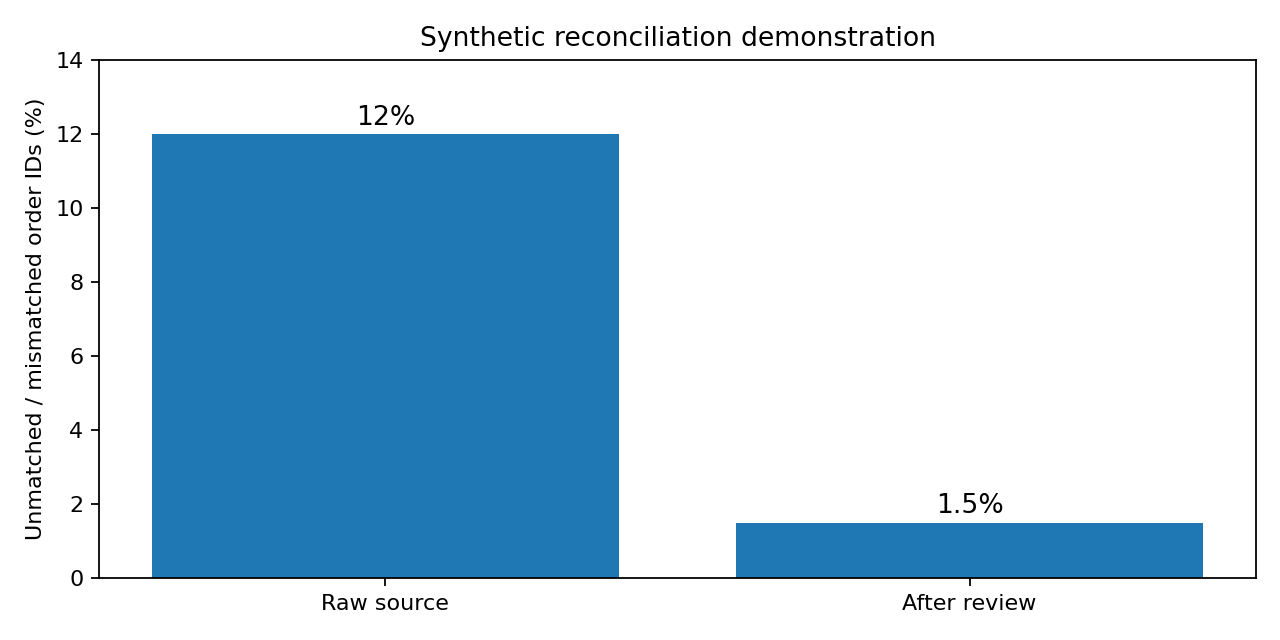
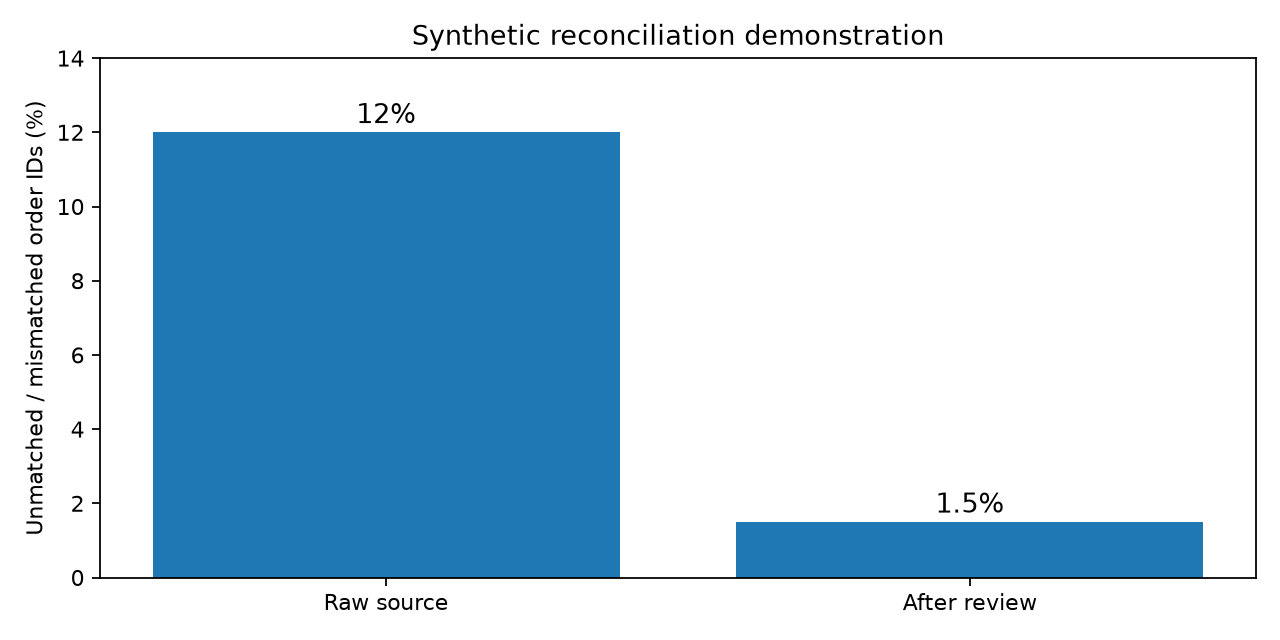
Fix reproducibility and publish verified analytics evidence

diff --git a/run_analysis.py b/run_analysis.py
@@ -1,27 +1,35 @@
-"""Re-run reconciliation and reporting on generated CSVs without regenerating them."""
+"""Replay reconciliation from generated CSVs with data-derived denominators."""
 from pathlib import Path
+import json
 import pandas as pd
-ROOT=Path(__file__).resolve().parent
-orders=pd.read_csv(ROOT/'data/orders.csv',usecols=['order_id','channel','sku_id','quantity','net_amount_inr','item_cost_inr'])
+
+ROOT = Path(__file__).resolve().parent
+ORDERS = pd.read_csv(ROOT / 'data/orders.csv', usecols=['order_id', 'channel', 'sku_id', 'quantity', 'net_amount_inr', 'item_cost_inr'])
 
 def audit(filename):
-    invoice=pd.read_csv(ROOT/'data'/filename)
-    # First aggregate invoice records to order_id grain; one-to-many joins inflate totals.
-    per_id=invoice.groupby('order_id',as_index=False).agg(invoice_count=('invoice_id','size'),invoice_amount_inr=('invoice_amount_inr','first'))
-    checked=orders[['order_id','net_amount_inr']].merge(per_id,on='order_id',how='left',validate='one_to_one')
-    missing=checked.invoice_count.isna()
-    duplicates=checked.invoice_count.gt(1)
-    amount=checked.net_amount_inr.ne(checked.invoice_amount_inr)
-    status='matched'
-    checked['status']='matched'
-    checked.loc[amount & ~missing,'status']='amount_mismatch'
-    checked.loc[duplicates,'status']='duplicate_invoice'
-    checked.loc[missing,'status']='missing_invoice'
-    return checked.status.value_counts().to_dict()
+    invoice = pd.read_csv(ROOT / 'data' / filename)
+    per_id = invoice.groupby('order_id', as_index=False).agg(
+        invoice_count=('invoice_id', 'size'), invoice_amount_inr=('invoice_amount_inr', 'first'))
+    checked = ORDERS[['order_id', 'net_amount_inr']].merge(per_id, on='order_id', how='left', validate='one_to_one')
+    missing = checked.invoice_count.isna()
+    duplicates = checked.invoice_count.gt(1)
+    amount = checked.invoice_amount_inr.isna() | (checked.net_amount_inr - checked.invoice_amount_inr).abs().gt(0.01)
+    checked['status'] = 'matched'
+    checked.loc[amount & ~missing & ~duplicates, 'status'] = 'amount_mismatch'
+    checked.loc[duplicates, 'status'] = 'duplicate_invoice'
+    checked.loc[missing, 'status'] = 'missing_invoice'
+    return checked
 
-before=audit('invoices_raw.csv')
-after=audit('invoices_after_review.csv')
-print('BEFORE:',before,'\nAFTER:',after)
-print('Before rate:',100*(750000-before.get('matched',0))/750000)
-print('After rate:',100*(750000-after.get('matched',0))/750000)
-print('Weekly reporting effort: 8h -> 2h (illustrative 75% reduction)')
+def summary(frame):
+    counts = frame.status.value_counts().to_dict()
+    denominator = len(frame)
+    return {'counts': {k: int(v) for k, v in counts.items()}, 'orders': denominator,
+            'exception_count': int((frame.status != 'matched').sum()),
+            'exception_rate_pct': round(100 * (frame.status != 'matched').mean(), 4)}
+
+before, after = audit('invoices_raw.csv'), audit('invoices_after_review.csv')
+report = {'before': summary(before), 'after': summary(after),
+          'reporting_effort': {'before_hours': 8, 'after_hours': 2, 'time_saved_pct': 75,
+                               'status': 'illustrative assumption; not measured by generated records'}}
+(ROOT / 'outputs/replay_metrics.json').write_text(json.dumps(report, indent=2) + '\n')
+print(json.dumps(report, indent=2))

diff --git a/build_demo.py b/build_demo.py
@@ -59,7 +59,8 @@ exceptions.to_csv(DATA/'exception_register.csv',index=False)
 def reconciliation(inv):
     s=inv.groupby('order_id').agg(invoice_count=('invoice_id','size'),invoice_amount_inr=('invoice_amount_inr','first')).reset_index()
     o=orders[['order_id','net_amount_inr']].merge(s,on='order_id',how='left',validate='one_to_one')
-    o['status']=np.select([o.invoice_count.isna(),o.invoice_count.gt(1),o.net_amount_inr.ne(o.invoice_amount_inr)],['missing_invoice','duplicate_invoice','amount_mismatch'],default='matched')
+    amount_mismatch = o.invoice_amount_inr.isna() | (o.net_amount_inr-o.invoice_amount_inr).abs().gt(0.01)
+    o['status']=np.select([o.invoice_count.isna(),o.invoice_count.gt(1),amount_mismatch],['missing_invoice','duplicate_invoice','amount_mismatch'],default='matched')
     return o
 before=reconciliation(raw);after=reconciliation(corrected)
 summary=pd.DataFrame({'status':['matched','amount_mismatch','missing_invoice','duplicate_invoice'],'before':[int((before.status==s).sum()) for s in ['matched','amount_mismatch','missing_invoice','duplicate_invoice']],'after':[int((after.status==s).sum()) for s in ['matched','amount_mismatch','missing_invoice','duplicate_invoice']]})
@@ -83,7 +84,7 @@ inventory['needs_reorder']=inventory.stock_on_hand.lt(inventory.reorder_point)
 inventory.to_csv(DATA/'inventory_snapshot.csv',index=False)
 # Weekly reporting effort comparison: demonstration narrative baseline provided, not computed from fake dates.
 pd.DataFrame({'process':['weekly_sales_reporting'],'before_hours':[8],'after_hours':[2],'time_saved_pct':[75]}).to_csv(OUT/'reporting_efficiency.csv',index=False)
-metrics={'synthetic_orders':N,'raw_exceptions':90000,'raw_mismatch_rate_pct':12.0,'remaining_exceptions':11250,'after_mismatch_rate_pct':1.5,'reduction_percentage_points':10.5,'relative_reduction_pct':87.5,'reporting_time_saved_pct':75,'scope':'Synthetic educational reconstruction; does not prove resume achievements'}
+metrics={'synthetic_orders':int(len(orders)),'raw_exceptions':int((before.status!='matched').sum()),'raw_mismatch_rate_pct':round(100*float((before.status!='matched').mean()),4),'remaining_exceptions':int((after.status!='matched').sum()),'after_mismatch_rate_pct':round(100*float((after.status!='matched').mean()),4),'reduction_percentage_points':round(100*float((before.status!='matched').mean()-after.status.ne('matched').mean()),4),'relative_reduction_pct':round(100*float(1-after.status.ne('matched').mean()/before.status.ne('matched').mean()),4),'reporting_time_saved_pct':75,'scope':'Synthetic educational reconstruction; does not prove resume achievements'}
 (OUT/'metrics.json').write_text(json.dumps(metrics,indent=2))
 plt.figure(figsize=(8,4))
 plt.bar(['Raw source','After review'],[12,1.5])

diff --git a/test_reconciliation.py b/test_reconciliation.py
@@ -1,0 +1,23 @@
+import unittest
+import pandas as pd
+from run_analysis import audit
+
+class ReconciliationTests(unittest.TestCase):
+    def test_seeded_counts_and_rates(self):
+        before, after = audit('invoices_raw.csv'), audit('invoices_after_review.csv')
+        self.assertEqual(len(before), 750000)
+        self.assertEqual(len(after), 750000)
+        self.assertEqual(int((before.status != 'matched').sum()), 90000)
+        self.assertEqual(int((after.status != 'matched').sum()), 11250)
+
+    def test_missing_and_duplicate_precedence(self):
+        orders = pd.DataFrame({'order_id':[1,2,3], 'net_amount_inr':[100,100,100]})
+        invoices = pd.DataFrame({'order_id':[1,2,2,3], 'invoice_id':['a','b','c','d'], 'invoice_amount_inr':[100,99,100,None]})
+        per_id = invoices.groupby('order_id', as_index=False).agg(invoice_count=('invoice_id','size'), invoice_amount_inr=('invoice_amount_inr','first'))
+        c = orders.merge(per_id, on='order_id', how='left', validate='one_to_one')
+        missing, duplicates = c.invoice_count.isna(), c.invoice_count.gt(1)
+        amount = c.invoice_amount_inr.isna() | (c.net_amount_inr-c.invoice_amount_inr).abs().gt(.01)
+        c['status']='matched'; c.loc[amount & ~missing & ~duplicates,'status']='amount_mismatch'; c.loc[duplicates,'status']='duplicate_invoice'; c.loc[missing,'status']='missing_invoice'
+        self.assertEqual(c.status.tolist(), ['matched','duplicate_invoice','amount_mismatch'])
+
+if __name__ == '__main__': unittest.main()

diff --git a/README.md b/README.md
@@ -42,9 +42,10 @@ python -m venv .venv
 pip install -r requirements.txt
 python build_demo.py
 python run_analysis.py
+python -m unittest -v
 ```
 
-`build_demo.py` deterministically generates the **complete 750K-row dataset** under `data/` using a fixed seed, along with report outputs in `outputs/`. The large generated CSVs are excluded from Git to keep the repository lightweight. Small examples are committed under `data/sample/`.
+`build_demo.py` deterministically generates the **complete 750K-row dataset** under `data/` using a fixed seed, along with report outputs in `outputs/`. The large generated CSVs are excluded from Git to keep the repository lightweight. Small examples are committed under `data/sample/`. `run_analysis.py` derives the denominator from the generated order file and applies a 0.01 amount tolerance. The test suite covers seeded rates and missing/duplicate/amount precedence.
 
 **Open:** `outputs/retail_dashboard.html` for an offline demonstration.
 
